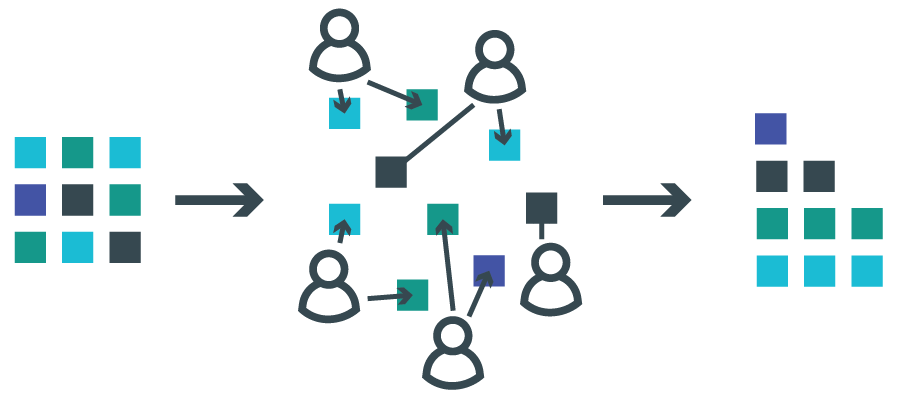
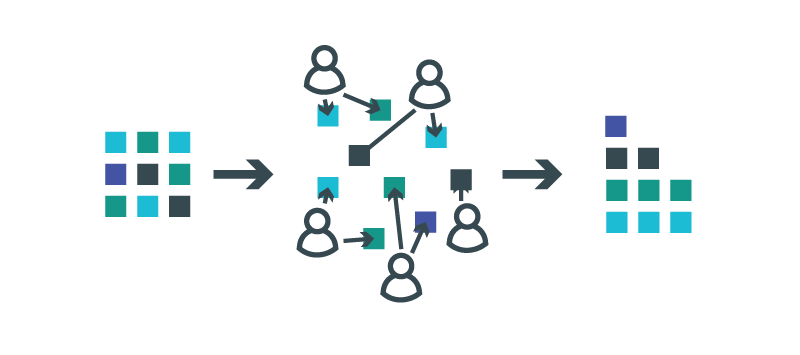
Added new illustrations.

Changed region(s): [[0.0, 0.0, 1.0, 0.9915], [0.8125, 0.2789, 0.875, 0.3718]]

diff --git a/_posts/2015-12-07-microtasking.md b/_posts/2015-12-07-microtasking.md
@@ -36,9 +36,9 @@ Increasingly, this technology is being used by the not for profit sector. The fo
 
 Several existing tools allow organizations to create and launch their own microtasking project. The table below compares key functional differences between the platforms used by the example initiatives above.
 
-Platform | [Tomnod](//www.tomnod.com) | [Zooniverse](//www.zooniverse.org) | [Checkdesk](//checkdesk.org) | [Crowdcrafting + Pybossa](//crowdcrafting.org) | [Pybossa](//pybossa.com) | [Crowdata](crowdata.github.com) |
+Platform | [Tomnod](//www.tomnod.com) | [Zooniverse](//www.zooniverse.org) | [Checkdesk](//checkdesk.org) | [Crowdcrafting + Pybossa](//crowdcrafting.org) | [Pybossa](//pybossa.com) | [Crowdata](//crowdata.github.com) |
 -------- | -------- | -------- | -------- | -------- | -------- | -------- | 
-__Location__ | Colorado, USA | Chicago, USA and Oxford, England | San Francisco, USA | Unknown | Madrid, Spain | South America |
+__Location__ | Colorado, USA | Chicago, USA and Oxford, England | San Francisco, USA | Unknown | Madrid, Spain | Buenos Aires, Argentina |
 __Created__ | 2011 | 2009 | 2011 | 2011 | 2011 | 2013 |
 __Allowed Data Formats__ | Visual | Visual, Audio | Visual and Text | Visual, Text, Audio | Visual, Text, Audio | Text |
 __Allowed Microtasks__ | Discovery | Discovery, Verification | Verification | Discovery, Verification | Varies | Verification, Data Release |
@@ -61,7 +61,6 @@ Microtasking has two principal benefits.
 
 * __Getting data that would otherwise be time-consuming to process or impossible to access.__ Any problem that can be broken into small tasks can potentially be crowdsourced to volunteers. Popular microtasking mechanisms include answering questions, transcribing information, identifying points, drawing shapes, and comparing two pieces of data.
 * __Engaging volunteers actively in an issue.__ A major challenge for many member-driven organizations is turning web-based support into real world action. Beyond sharing information or providing financial support (often derided as “clicktivism”), microtasking offers volunteers the opportunity to be actively involved, learn more about an issue, and make a meaningful contribution.
-
 
 ### Disadvantages
 
@@ -91,11 +90,16 @@ Our interviewees represented projects and platforms that varied widely in terms 
 Microtasking isn't magic. Recognizing its limitations early in the planning process can allow an initiative to use it as effectively as possible.
 
 * __Most volunteers will contribute for a maximum of 5-10 minutes, with a minority contributing over a longer period.__ However, this minority typically contributes most of the data that microtasking platforms receive. For example, Greenpeace Guardianes said that about 10% of its 30,000 users make 90% of the total contributions to the site.
+
+![Superusers](../media/microtasking/superusers.png)
+
 * __Volunteers are most likely to complete tasks that are comprehensible in a short space of time.__ Interviewees said that projects often struggled with simplifying tasks down into the base unit of analysis. As the founder of Pybossa put it: “‘simple’ doesn’t mean ‘not complex,’ but volunteers shouldn’t need to spend a lot of time trying to understand the task.” 
 * __‘Divide and conquer’: volunteers should only be asked to complete one type of task at a time.__ Zooniverse’s co-founder noted: “research teams tend to want to milk everything possible out of a task sequence, but experience has demonstrated that it’s always possible to go back and ask questions later on.” Pybossa’s founder added that some organisations were now successfully running 3-5 projects in parallel, with sets of volunteers each conducting a discrete, separate task to collect data that contributed to the project’s overall goal.
 * __Volunteers are likely to contribute more effectively when they can access information about the context of a task.__ Tomnod started by giving volunteers access to a small, 400-pixel satellite image, but found that they contributed much more effectively when they could see the wider region of which that image was a part (using satellite imagery from Digital Globe, which runs Tomnod). As the project lead of the Planetary Response Network said: “any project will have complete beginners and near-experts. The idea is to train people so they can become experts [by providing the right guidance].”
 * __There is a natural limit to the length of time that most volunteers will contribute.__ As Fairplay Alliance found: “Most of the volunteers were really active for 4-6 weeks – we could sustain it a bit longer with gamification (encouraging competition between users), but not much longer.”
+* __Acceptable data formats.__ Microtasking can work well when applied to the division and distribution tasks related to imagery (such as maps or photos), audio, or text. 
 
+![Data Formats](../media/microtasking/data_formats.png)
 
 ### Requirements 
 
@@ -161,6 +165,8 @@ Interviewees held differing opinions on whether gamification was useful or appro
 #### Gamification
 
 When designing an activity that is intended to encourage repeated participation, designers can add elements more typical of game play (keeping score, creating competition, animations and other friendly interactions). This is called “gamification,” and it can encourage further engagement with a product or service. 
+
+![Gamification](../media/microtasking/gamification.png)
 
 Arguments for gamification included: 
 
